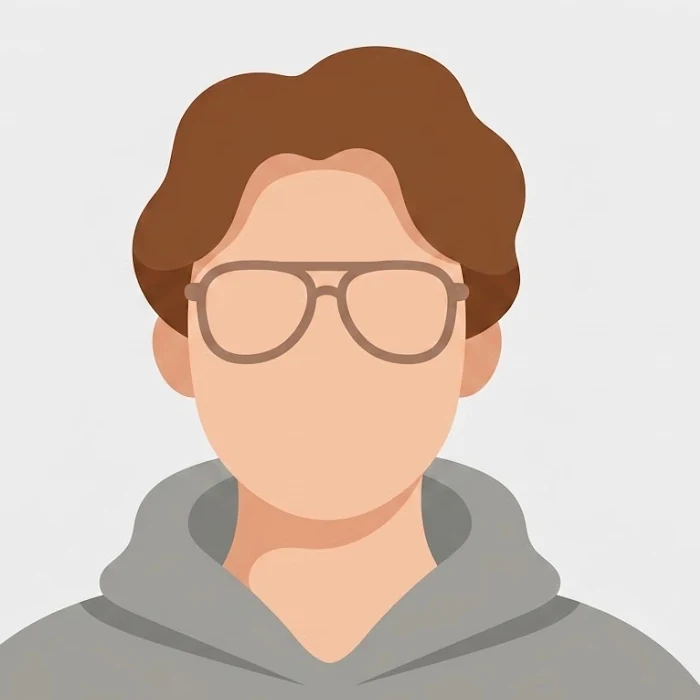
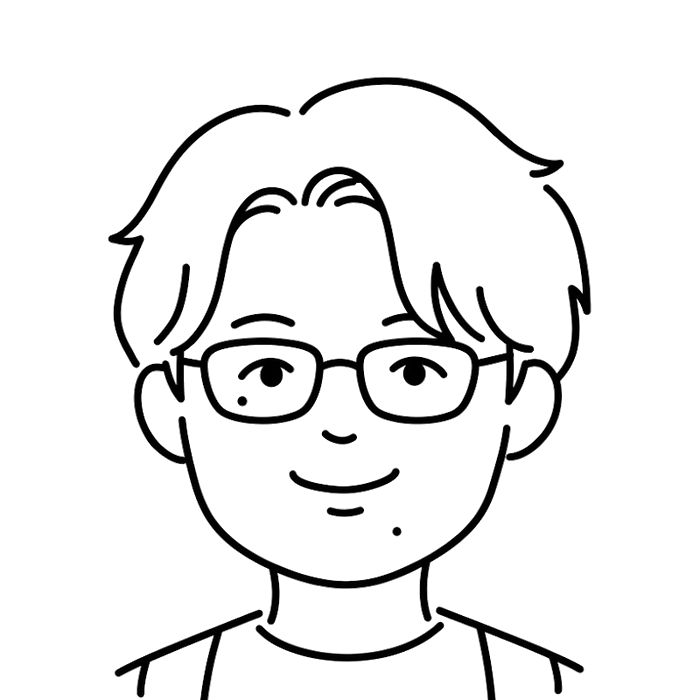
content: 顔画像を線画に差し替える
- 被写体の範囲(552x749)を測って正方形に切り出し、髪の先が切れない
  ゆるめの框で 700x700 に
- 白背景を抜いて可逆 WebP に(32.6KB)。線画は非可逆だと輪郭が滲むうえ、
  可逆のほうが小さかった
- .who__avatar の background を transparent に。地色を塗ると円の中だけ
  和紙の地合いが消えて平らな面になるため

diff --git a/src/app/globals.css b/src/app/globals.css
@@ -921,7 +921,9 @@ body {
   object-fit: cover;
   border-radius: 50%;
   border: 3px solid var(--ink);
-  background: var(--paper);
+  /* 線画は背景を抜いてあるので、地色ではなく body の和紙をそのまま透かす。
+     ここで --paper を塗ると、円の中だけ地合いのない平らな面になってしまう */
+  background: transparent;
   box-shadow: 0 10px 22px rgb(35 31 32 / 0.14);
   flex-shrink: 0;
 }
